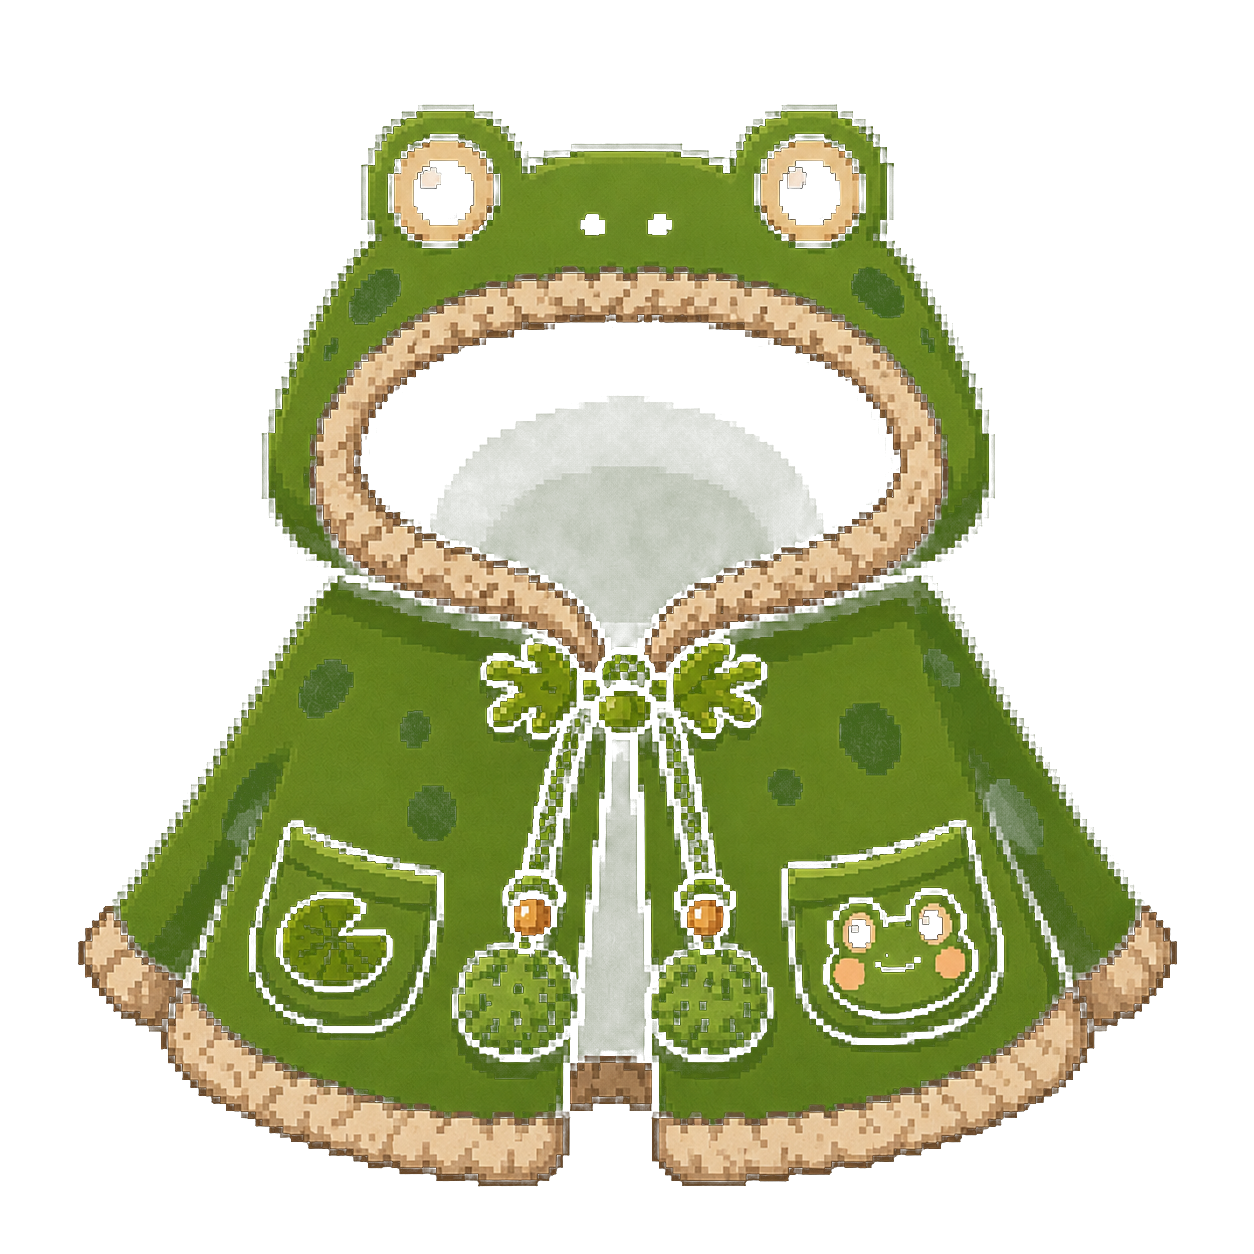
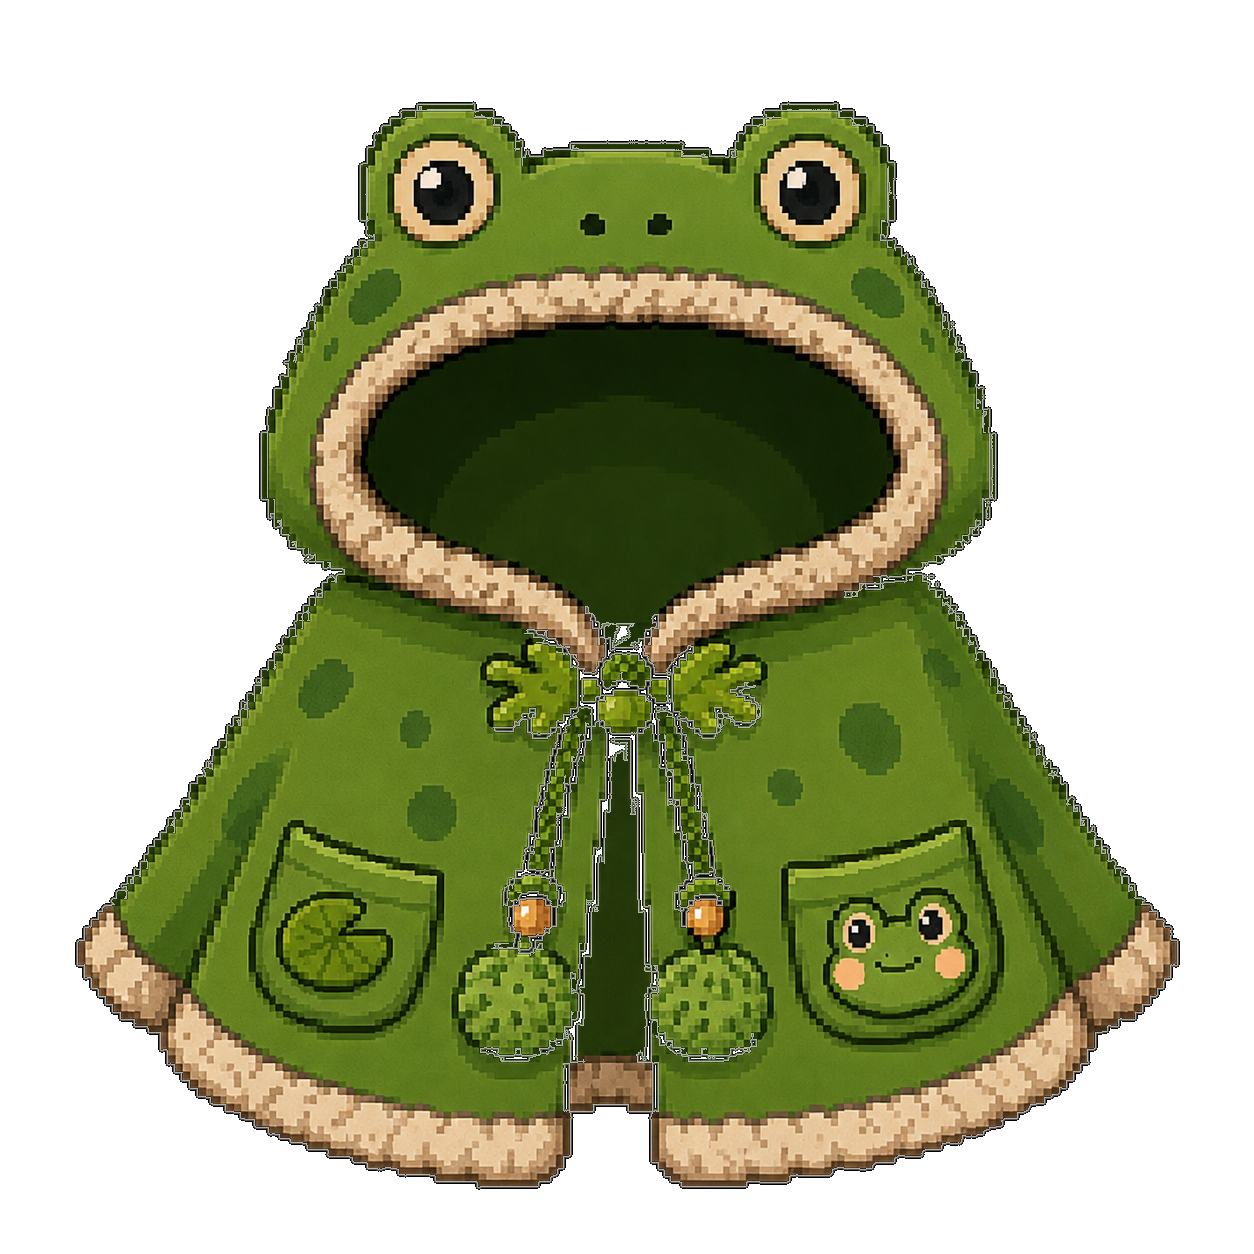
Add files via upload

diff --git a/script.js b/script.js
@@ -45,7 +45,7 @@ const Utils = {
 
 const STORAGE_KEY = 'gatinho-faminto-save-v1';
 
-const HUNGER_DECAY_PER_MIN = 1.4;   // quanto de fome cai por minuto real
+const HUNGER_DECAY_PER_MIN = 0.7;   // quanto de fome cai por minuto real (mais devagar)
 const HAPPY_DECAY_PER_MIN  = 0.9;   // quanto de felicidade cai por minuto real
 
 const Storage = {
@@ -242,41 +242,8 @@ const Cat = {
     this.els.sleepBtn = document.getElementById('btn-sleep');
     this.els.sleepCard = document.getElementById('sleep-card');
     this.els.sleepImg = document.getElementById('sleep-scene-img');
-    this.els.statusBubble = document.getElementById('pet-status-bubble');
-    this.els.statusText = document.getElementById('pet-status-text');
     this.els.levelValue = document.getElementById('level-value');
     this.els.xpFill = document.getElementById('xp-fill');
-    this._playingUntil = 0;
-  },
-
-  // ---- Mensagem de status (substitui o nome sempre visível embaixo do gato) ----
-  // Só aparece quando alguma condição é realmente verdadeira; do contrário, some.
-  setPlaying(ms){
-    this._playingUntil = Date.now() + ms;
-  },
-
-  updateStatus(state){
-    const name = state.name || 'Seu gatinho';
-    let message = null;
-
-    if(state.sleeping){
-      message = `${name} está com sono`;
-    }else if(Date.now() < this._playingUntil){
-      message = `${name} está brincando`;
-    }else if(state.hunger < 35){
-      message = `${name} está com fome`;
-    }else if(state.happy > 70 && state.hunger > 60){
-      message = `${name} está feliz`;
-    }
-
-    if(message){
-      if(this.els.statusText.textContent !== message){
-        this.els.statusText.textContent = message;
-      }
-      this.els.statusBubble.hidden = false;
-    }else{
-      this.els.statusBubble.hidden = true;
-    }
   },
 
   moodFor(hunger, happy){
@@ -289,7 +256,6 @@ const Cat = {
 
   render(state){
     this.els.nameDisplay.textContent = state.name || 'Miau';
-    this.updateStatus(state);
     this.renderLevel(state);
     this.els.hungerValue.textContent = Math.round(state.hunger);
     this.els.happyValue.textContent = Math.round(state.happy);
@@ -693,7 +659,7 @@ const Minigame = {
       r,
       vy: Utils.rand(70, 110) + (30 - this.timeLeft) * 2,
       rot: Utils.rand(0, Math.PI * 2),
-      vrot: Utils.rand(-1.5, 1.5)
+      vrot: type === 'tenis' ? Utils.choice([-1, 1]) * Utils.rand(1.8, 3.2) : Utils.rand(-1.5, 1.5)
     });
   },
 
@@ -770,7 +736,7 @@ const Minigame = {
     this.items.forEach(it => {
       ctx.save();
       ctx.translate(it.x, it.y);
-      ctx.rotate(it.type === 'food' ? it.rot : 0);
+      ctx.rotate(it.type === 'fish' ? 0 : it.rot);
       if(it.type === 'fish'){
         const img = this.fishImg;
         const { w, h, offsetY } = this._fishBox(it);
@@ -1093,13 +1059,20 @@ const Shop = {
     const state = this.getState();
     if(!item || (state.inventory[itemId] || 0) <= 0) return;
 
+    // A Poção Cat enche a fome — só faz sentido dar se o gatinho realmente
+    // estiver com fome. Com a fome já cheia, o gatinho não aceita.
+    if(itemId === 'pocao-fome' && state.hunger >= 100){
+      Sound.sad();
+      Utils.showToast(`${state.name || 'Seu gatinho'} não está com fome agora! 😌`);
+      return;
+    }
+
     // Guarda a posição/imagem do item AGORA, porque renderAll() vai
     // reconstruir a lista e apagar o elemento original do DOM.
     const startRect = imgEl.getBoundingClientRect();
     const iconSrc = imgEl.src;
 
     state.inventory[itemId]--;
-    grantXP(10);
 
     // Se o gato estiver dormindo, acorda com a poção :)
     const wasSleeping = state.sleeping;
@@ -1114,20 +1087,21 @@ const Shop = {
     setTimeout(() => {
       this.close();
       Cat.playAction('eating', 900);
-      Cat.setPlaying(1400);
       Sound.feedComplete();
 
       if(item.id === 'pocao-fome'){
-        // Poção Cat: enche a fome instantaneamente
+        // Poção Cat (a mais cara): enche a fome instantaneamente e vale +50 XP
         state.hunger = 100;
+        grantXP(50);
         this.onChange();
-        Utils.showToast(`${state.name || 'Seu gatinho'} encheu a pancinha na hora! 🍗✨`);
       }else{
+        // Poção Moyai (a mais barata): deixa cheiroso/rosinha e vale +30 XP
         Cat.blush(5000);
         state.happy = Utils.clamp(state.happy + 15, 0, 100);
+        grantXP(30);
         this.onChange();
-        Utils.showToast(`${state.name || 'Seu gatinho'} ficou cheiroso e rosinha! 💗`);
       }
+      Utils.showToast('Você usou uma poção! 🧪');
 
       if(wasSleeping) Utils.showToast(`${state.name || 'Seu gatinho'} acordou! ☀`);
     }, 650);
@@ -1186,7 +1160,7 @@ function grantXP(amount){
     Sound.coin();
     const last = levelsGained[levelsGained.length - 1];
     const totalReward = levelsGained.reduce((sum, l) => sum + l.reward, 0);
-    Utils.showToast(`🎉 Subiu para o nível ${last.level}! +${totalReward} moedas`);
+    Utils.showToast(`🎉 ${state.name || 'Seu gatinho'} subiu de nível! Nível ${last.level} (+${totalReward} moedas)`);
   }
 }
 
@@ -1204,8 +1178,8 @@ function startDecayLoop(){
     updateHomeUI();
     persist();
 
-    if(state.hunger < 15 && !state.sleeping && Math.random() < 0.15){
-      Utils.showToast(`${state.name} está com muita fome... 🍞`);
+    if(state.hunger < 20 && !state.sleeping && Math.random() < 0.1){
+      Utils.showToast(`${state.name || 'Seu gatinho'} está com fome 🍞`);
     }
   }, 1000);
 }
@@ -1315,16 +1289,20 @@ function initHomeScreen(){
     if(state.sleeping) return;
     Sound.pet();
     Cat.playAction('petting', 500);
-    Cat.setPlaying(1200);
     Cat.spawnHearts(4);
     state.happy = Utils.clamp(state.happy + 3, 0, 100);
-    grantXP(5);
+    Utils.showToast('Você fez carinho! 💛');
     updateHomeUI();
     persist();
   });
 
   document.getElementById('btn-feed').addEventListener('click', () => {
     if(state.sleeping) return;
+    if(state.hunger >= 100){
+      Sound.sad();
+      Utils.showToast(`${state.name || 'Seu gatinho'} não está com fome agora! 😌`);
+      return;
+    }
     startFeedMinigame();
   });
 
@@ -1332,7 +1310,7 @@ function initHomeScreen(){
     state.sleeping = !state.sleeping;
     if(state.sleeping){
       Sound.sleep();
-      Utils.showToast(`${state.name || 'Seu gatinho'} foi dormir... 😴`);
+      Utils.showToast(`${state.name || 'Seu gatinho'} está dormindo 😴`);
     }else{
       Sound.wake();
       Utils.showToast(`${state.name || 'Seu gatinho'} acordou! ☀`);
@@ -1360,9 +1338,12 @@ function finishFeedMinigame(result){
   state.happy = Utils.clamp(state.happy + happyGain, 0, 100);
   state.coins += coinsGain;
   state.totalFed += result.caught;
-  Cat.setPlaying(1500);
   grantXP(result.caught * 8 + (result.fishCaught || 0) * 15);
   persist();
+
+  if(result.caught > 0){
+    Utils.showToast('Você deu comida! 🍞');
+  }
 
   updateHomeUI();
   document.getElementById('result-caught').textContent = result.caught;

diff --git a/style.css b/style.css
@@ -316,21 +316,6 @@ h1, h2{ font-family:'Fredoka', 'Baloo 2', sans-serif; margin:0 0 4px; }
   background: linear-gradient(90deg, #8e6bd8, #c9a6ff);
   transition: width .4s ease;
 }
-
-/* ---------- Bolha de status (substitui o nome sempre visível) ---------- */
-.pet-status-bubble{
-  width:100%; max-width:480px;
-  display:flex; justify-content:center;
-  margin-bottom: 4px;
-}
-.pet-status-bubble[hidden]{ display:none; }
-.pet-status-bubble span{
-  background:#fff; padding:6px 16px; border-radius:999px;
-  font-weight:600; font-size:.85rem; color: var(--ink);
-  box-shadow: 0 3px 0 rgba(122,75,21,.15);
-  max-width: 90%; text-align:center;
-  animation: popIn .25s ease-out;
-}
 .coins-tag{
   background:#fff; padding:8px 16px; border-radius:999px;
   font-weight:700; box-shadow: 0 4px 0 rgba(122,75,21,.15);
@@ -571,7 +556,7 @@ h1, h2{ font-family:'Fredoka', 'Baloo 2', sans-serif; margin:0 0 4px; }
   position:fixed; left:50%;
   bottom: calc(env(safe-area-inset-bottom, 0px) + 22px);
   transform:translateX(-50%) translateY(130%);
-  background: var(--ink); color:#fff; padding:10px 18px; border-radius:999px;
+  background: #fff; color: var(--ink); padding:10px 18px; border-radius:999px;
   font-weight:600; font-size:.9rem; z-index:95;
   max-width: min(92vw, 420px);
   width: max-content;
@@ -579,7 +564,8 @@ h1, h2{ font-family:'Fredoka', 'Baloo 2', sans-serif; margin:0 0 4px; }
   white-space: normal;
   word-break: break-word;
   transition: transform .3s ease;
-  box-shadow: 0 6px 14px rgba(0,0,0,.25);
+  box-shadow: 0 6px 14px rgba(122,75,21,.2);
+  border: 2px solid #f3e6c8;
 }
 .toast.show{ transform:translateX(-50%) translateY(0); }
 

diff --git a/index.html b/index.html
@@ -53,8 +53,6 @@
     <div class="coins-tag"><img class="coin-icon" src="MOEDA-cat.png" alt="moedas"> <span id="coins-display">0</span></div>
   </header>
 
-  <div id="pet-status-bubble" class="pet-status-bubble" hidden><span id="pet-status-text"></span></div>
-
   <div class="stage">
     <div class="ground"></div>
 
